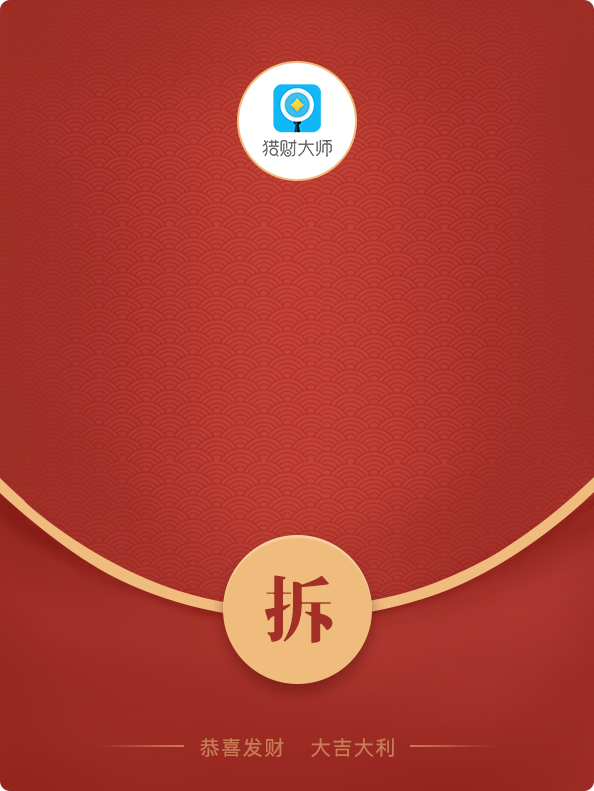
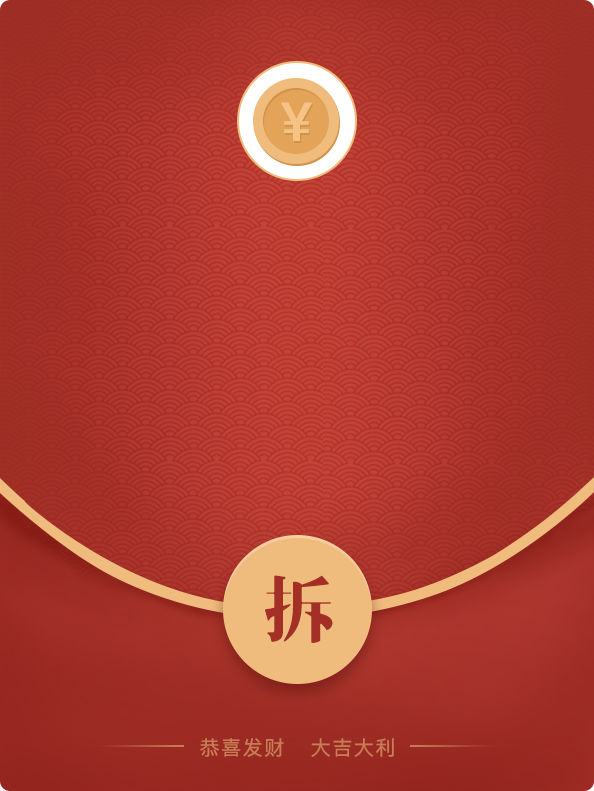
图片调整、客服电话等文本调整、测试环境配置调整

Changed region(s): [[0.4242, 0.091, 0.5758, 0.2124]]

diff --git a/public/publicConfig.js b/public/publicConfig.js
@@ -17,7 +17,7 @@ var publicConfig = (function() {
     // 接口主机地址
     var host = {
         mock: "10.16.0.204:8080",
-        dev: 'devmarket.bethye.top',
+        dev: '10.16.0.128:8888',
         pre: 'premarket.bethye.top',
         produce: 'market.bethye.top'
     };
@@ -25,23 +25,23 @@ var publicConfig = (function() {
     // 图片接口主机地址
     var imgHost = {
         mock: 'preimage.bethye.top',
-        dev: 'preimage.bethye.top',
+        dev: 'image.bethye.top',
         pre: 'preimage.bethye.top',
         produce: 'image.bethye.top'
     }
 
     var liecaiHost = {
         mock: 'https://prenliecai.bethye.top',
-        dev: 'https://prenliecai.bethye.top',
+        dev: 'http://10.16.0.128:12002',
         pre: 'https://prenliecai.bethye.top',
-        produce: 'https://nliecai.bethye.top'
+        produce: 'http://nliecai.bethye.top'
     }
 
     //网址地址
     var static = {
         mock: 'preliecai.bethye.top',
         //开发环境
-        dev: 'devliecai.bethye.top',
+        dev: '10.16.0.128:12001',
         // 预发布环境
         pre: 'preliecai.bethye.top',
         // 生产环境
@@ -53,7 +53,7 @@ var publicConfig = (function() {
         // mock环境
         mock: 'preliecai.bethye.top',
         //开发环境
-        dev: 'devliecai.bethye.top',
+        dev: '10.16.0.128:12001',
         // 预发布环境
         pre: 'preliecai.bethye.top',
         // 生产环境
@@ -63,7 +63,7 @@ var publicConfig = (function() {
     var toobeiDomain = {
         mock: 'pre.bethye.top/app',
         //开发环境
-        dev: 'pre.bethye.top/app',
+        dev: '10.16.0.128:12001',
         // 预发布环境
         pre: 'pre.bethye.top/app',
         // 生产环境

diff --git a/pages/message/userManual.html b/pages/message/userManual.html
@@ -37,11 +37,10 @@
                     <p class="title">4、派发后的红包如何使用？</p>
                     <p>
                         <span>红包可以派发给直接推荐理财师和客户，派发后的红包享受的福利一致。</span>
-                        <span>备注：4.3.0版本用户领到的投资红包显示会有区别，使用逻辑一致。</span>
                     </p>
                 </div>
                 <div class="padding-top">
-                    <p style="text-indent:0;">如您还有疑问请致电客服400-888-6987</p>
+                    <p style="text-indent:0;">如您还有疑问请致电客服0755-86725461</p>
                 </div>
             </div>
             <div class="tab tab-2" style="display:none;">
@@ -58,7 +57,7 @@
                     </p>
                 </div>
                 <div class="padding-top">
-                    <p style="text-indent:0;">如您还有疑问请致电客服400-888-6987</p>
+                    <p style="text-indent:0;">如您还有疑问请致电客服0755-86725461</p>
                 </div>
             </div>
             <div class="tab tab-3" style="display:none;">
@@ -82,7 +81,7 @@
                     </p>
                 </div>
                 <div class="padding-top">
-                    <p style="text-indent:0;">如您还有疑问请致电客服400-888-6987</p>
+                    <p style="text-indent:0;">如您还有疑问请致电客服0755-86725461</p>
                 </div>
             </div>
         </div>

diff --git a/pages/frame/children/understand.html b/pages/frame/children/understand.html
@@ -85,7 +85,7 @@
                     </div>
                 </div>-->
                 <div class="company-content company-content-2">
-                    <p>深圳市戈锐科技有限公司(以下简称“戈锐科技”)成立于2015年9月14日，是中国创新金融领域新兴力量的代表。</p>
+                    <p>深圳市戈锐科技有限公司(以下简称“戈锐科技”)是中国创新金融领域新兴力量的代表。</p>
                     <p>戈锐科技是一家专注于打造金融创业生态平台的金融科技公司。目前，公司服务遍布全国26个省，4个直辖市，346个城市。</p>
                     <div id="twoCompanyDesc" style="display: none;">
                         <p>戈锐科技旗下拥有服务于理财师的智能掌上工具"貅比特",服务于投资者的互联网金融信息导流平台"T呗",以及后期为金融机构提供用户导流、技术支持、品牌曝光等一系列配套服务的SAAS系统。</p>

diff --git a/pages/message/signRule.html b/pages/message/signRule.html
@@ -105,7 +105,7 @@
         <section>
             <h3><span></span><p>可转出奖励金转出至貅比特余额，一次性全额转出，无转出时间限制，无最低可转出金额限制。</p></h3>
             <div class="paragraph">
-                <div class="bottom">本签到功能现为试运行阶段，公司有权修改相关规则。如您还有疑问请致电客服400-888-6987</div>
+                <div class="bottom">本签到功能现为试运行阶段，公司有权修改相关规则。如您还有疑问请致电客服0755-86725461</div>
             </div>
         </section>
     </div>

diff --git a/pages/message/signTransfer.html b/pages/message/signTransfer.html
@@ -81,7 +81,7 @@
         <section>
             <h3><span></span><p>可转出奖励金转出至貅比特余额，一次性全额转出，无转出时间限制，无最低可转出金额限制。</p></h3>
             <div class="paragraph">
-                <div class="bottom">本签到功能现为试运行阶段，公司有权修改相关规则。如您还有疑问请致电客服400-888-6987</div>
+                <div class="bottom">本签到功能现为试运行阶段，公司有权修改相关规则。如您还有疑问请致电客服0755-86725461</div>
             </div>
         </section>
     </div>

diff --git a/pages/financing/product_detail/product_detail.js b/pages/financing/product_detail/product_detail.js
@@ -275,7 +275,7 @@ var financing = {
             //显示剩余额度(默认)
             data.isShowResidualAmount = '';
             data.residualAmount = (data.buyTotalMoney - data.buyedTotalMoney);
-            data.residualAmount = comm.numberTransform(data.residualAmount)
+            data.residualAmount = comm.numberTransform(data.residualAmount);
             percent = parseInt(data.buyedTotalMoney / data.buyTotalMoney * 100);
             //产品购买占比
             if (data.residualAmount < 0) {

diff --git a/pages/user/registerOld.html b/pages/user/registerOld.html
@@ -35,7 +35,7 @@
             <p class="padding2 lineHeight3 loginText"><a href="login.html">已有账号？直接<span class="readA">登录</span></a></p>
         </div>
     </div>
-    <div class="lineHeight3 bodyBottom">客服电话400-888-6987</div>
+    <div class="lineHeight3 bodyBottom">客服电话0755-86725461</div>
     <script type="text/javascript">
         require('registerOld/register');
     </script>

diff --git a/pages/cswar/receiveSuccess.html b/pages/cswar/receiveSuccess.html
@@ -54,7 +54,7 @@
             <p>邀请人：<span id="shareName"></span></p>
             <p>举办时间：每周五下午14:00 开始</p>
             <p>举办地址：长沙市开福区湘江中路万达广场A座47楼</p>
-            <p>客服电话：400-888-6987</p>
+            <p>客服电话：0755-86725461</p>
         </div>
         <div class="qr">
             <img src="./receiveSuccess/qr_code.jpg">

diff --git a/pages/user/registerZH.html b/pages/user/registerZH.html
@@ -33,7 +33,7 @@
 			<p class="padding2 lineHeight3 loginText"><a href="https://nliecai.toobei.com/#/">已有账号？直接<span class="readA">登录</span></a></p>
 		</div>
 	</div>
-	<!--<div class="lineHeight3 bodyBottom">客服电话400-888-6987</div>-->
+	<!--<div class="lineHeight3 bodyBottom">客服电话0755-86725461</div>-->
 	<script type="text/javascript">
 		require('registerZH/register');
 	</script>

diff --git a/pages/user/registerZH2.html b/pages/user/registerZH2.html
@@ -64,7 +64,7 @@
 			<a id="findPasswordSub" class="button subButton disButton">完成</a>
 		</div>
 	</div>
-	<div class="lineHeight3 bodyBottom">客服电话400-888-6987</div>
+	<div class="lineHeight3 bodyBottom">客服电话0755-86725461</div>
 	<script type="text/javascript">
 		require('registerZH/register2');
 	</script>

diff --git a/pages/cswar/csFenxiang.html b/pages/cswar/csFenxiang.html
@@ -88,7 +88,7 @@
                 </div>
             </div>
         </div>
-        <div class="tel">客服电话：400-888-6987</div>
+        <div class="tel">客服电话：0755-86725461</div>
         <div id="support">
             <a style="display: block;height: 100%;" href="./receiveBenefit.html"></a>
         </div>

diff --git a/pages/user/register2.html b/pages/user/register2.html
@@ -64,7 +64,7 @@
 			<a id="findPasswordSub" class="button subButton disButton">完成</a>
 		</div>
 	</div>
-	<div class="lineHeight3 bodyBottom">客服电话400-888-6987</div>
+	<div class="lineHeight3 bodyBottom">客服电话0755-86725461</div>
 	<script type="text/javascript">
 		require('register/register2');
 	</script>
